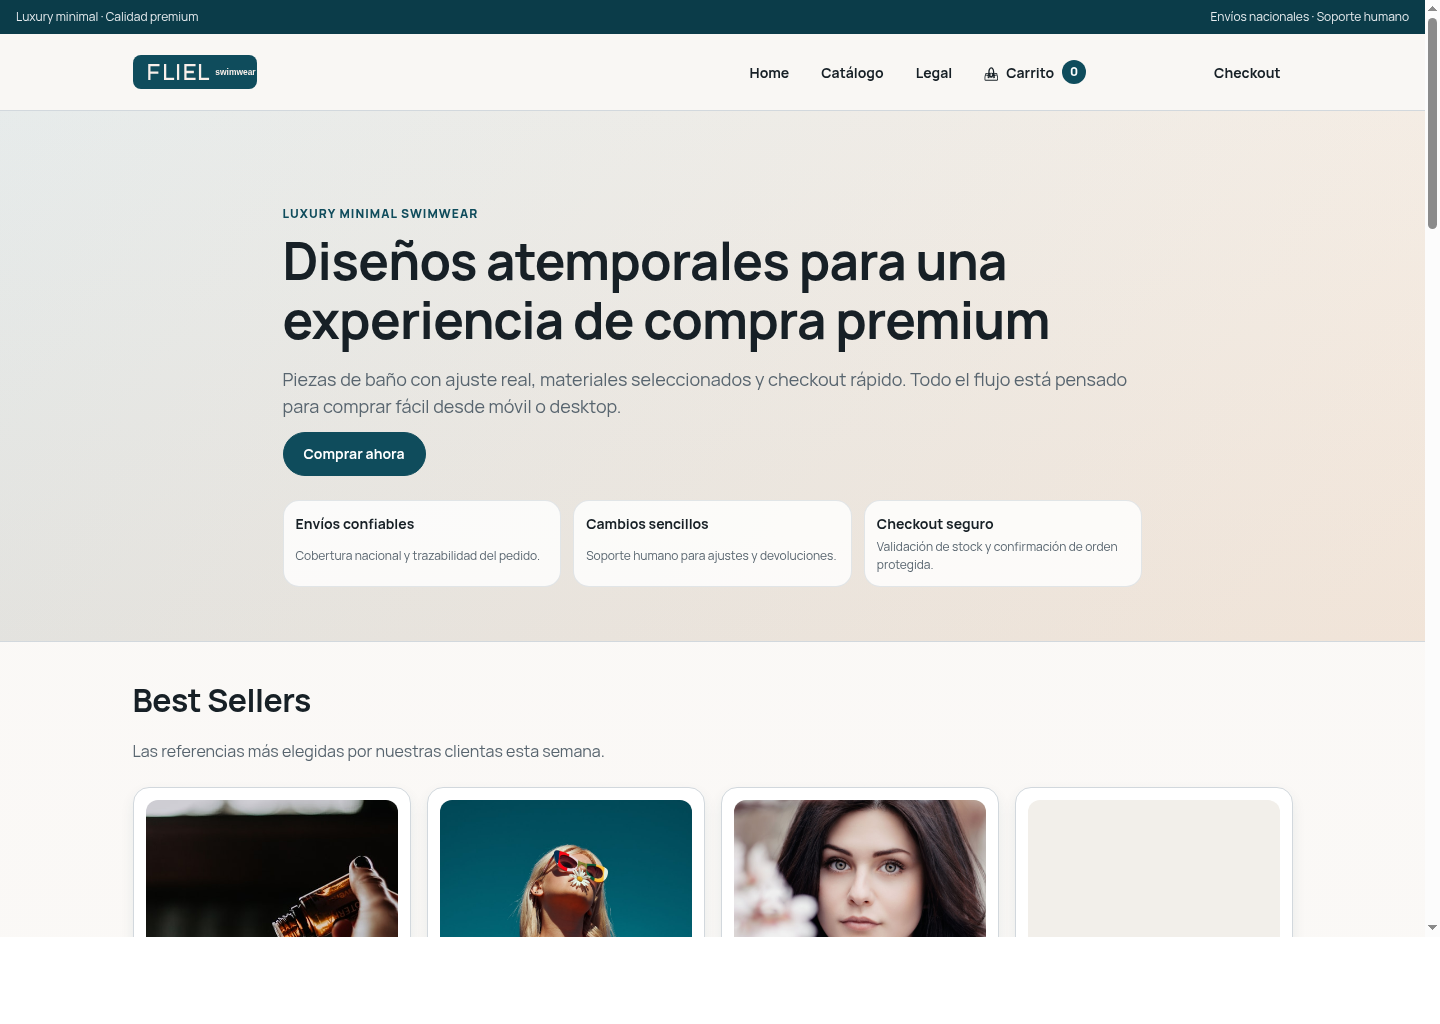
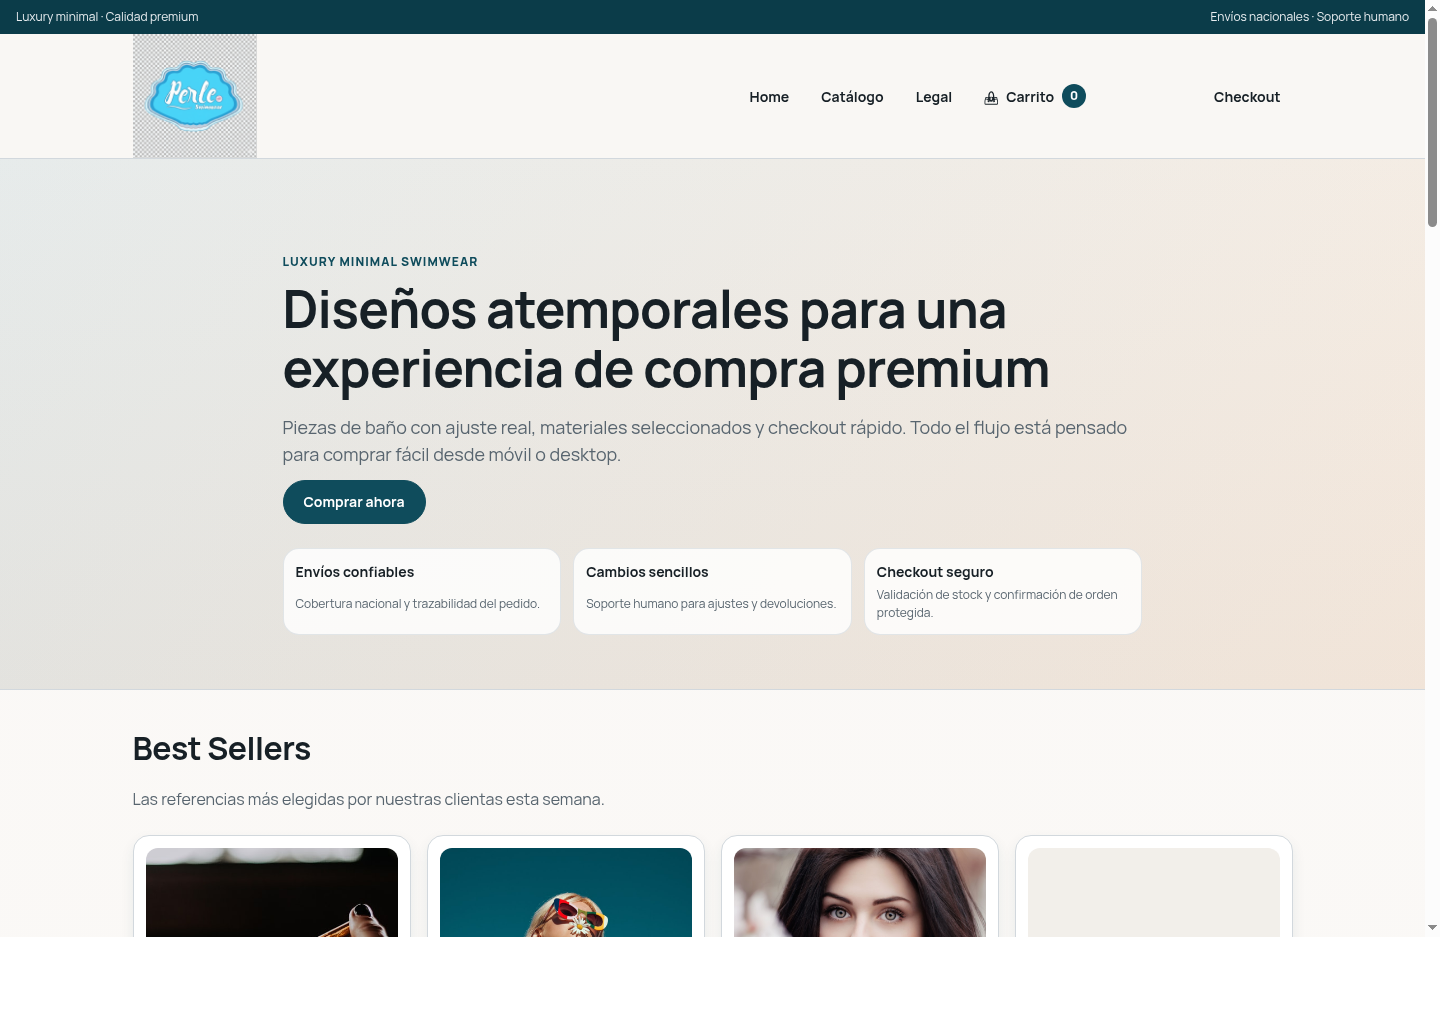
docs(brand): refresh screenshots and branding notes

diff --git a/ecommerce_perle/docs/screenshots/README.md b/ecommerce_perle/docs/screenshots/README.md
@@ -23,5 +23,6 @@ source .venv/bin/activate
 python manage.py runserver 127.0.0.1:8001
 chromium --headless --disable-gpu --screenshot=docs/screenshots/home_desktop.png --window-size=1440,1024 http://127.0.0.1:8001/
 chromium --headless --disable-gpu --screenshot=docs/screenshots/home_mobile360.png --window-size=360,800 http://127.0.0.1:8001/
+chromium --headless --disable-gpu --screenshot=docs/screenshots/admin-login.png --window-size=1440,1024 http://127.0.0.1:8001/admin/login/
 chromium --headless --disable-gpu --screenshot=docs/screenshots/admin-dashboard-premium.png --window-size=1440,1024 http://127.0.0.1:8001/admin/
 ```

diff --git a/ecommerce_perle/README.md b/ecommerce_perle/README.md
@@ -2,6 +2,8 @@
 
 Aplicación Django + DRF para catálogo, carrito, checkout y operación interna con panel admin premium.
 
+Branding activo: logo oficial del negocio (`static/brand/perle-logo.png`) y favicon (`static/brand/favicon.png`) en storefront + admin.
+
 ## Stack
 - Django 5.x + DRF
 - Templates + CSS/JS vanilla (`static/css/perle.css`, `static/js/storefront.js`)
